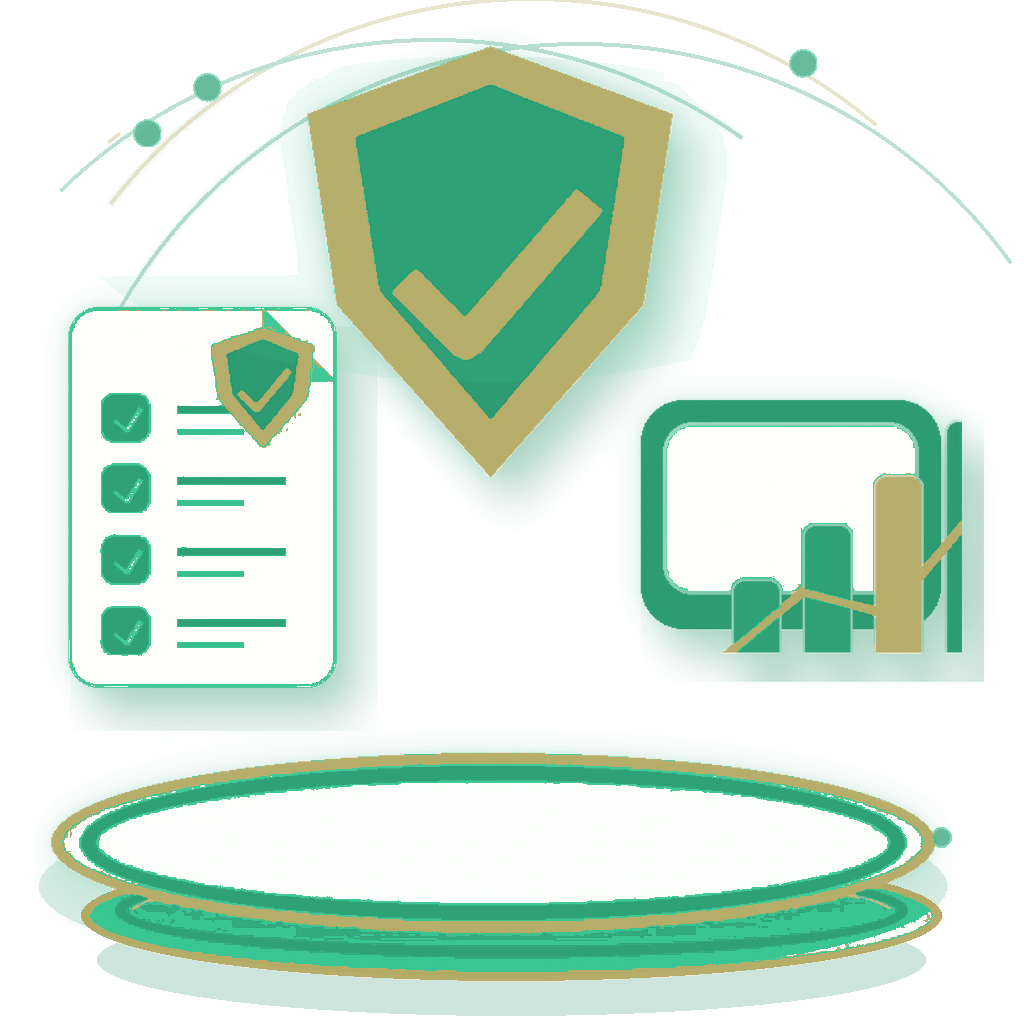
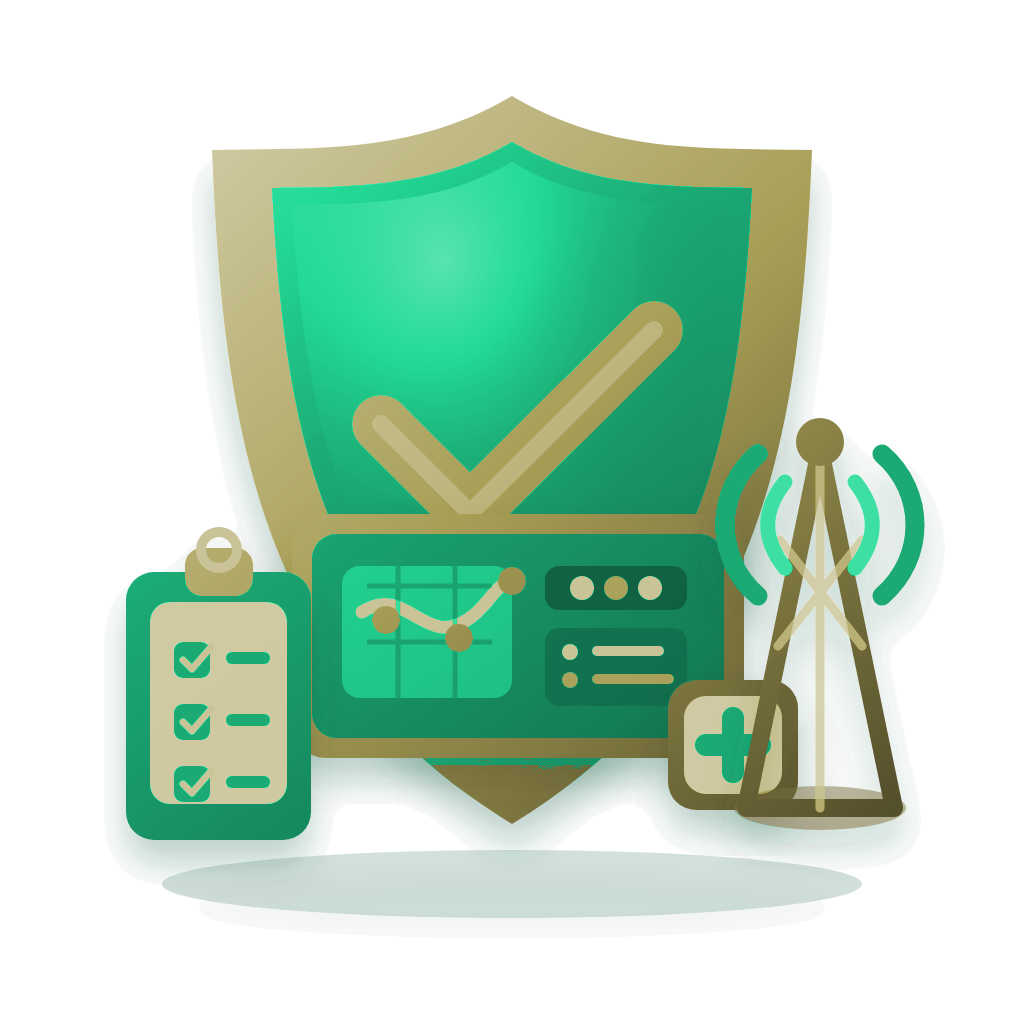
Redesign emergency intro assets

diff --git a/src/components/player/SlideStage.tsx b/src/components/player/SlideStage.tsx
@@ -1359,7 +1359,7 @@ function IntroMotionScene({
   // pixels never re-checks after we edit the file in place -- append a
   // manual version query so updating this file always busts the cache.
   const introHeroSrc = isEmergencyCourse
-    ? '/assets/visual-library/intro-emergency-preparedness-shield.webp?v=3'
+    ? '/assets/visual-library/intro-emergency-preparedness-shield.webp?v=4'
     : '/assets/visual-library/intro-governance-building-scene.webp';
   // Keep the pillar row's horizontal center locked to the hero image's own
   // center (both anchored from the right edge) so it never reads as

diff --git a/src/components/player/SlideTemplateFrame.tsx b/src/components/player/SlideTemplateFrame.tsx
@@ -21,7 +21,7 @@ export function SlideTemplateFrame({ variant = 'default' }: { variant?: 'default
             draggable={false}
           />
           <img
-            src="/template-assets/intro-topright-swoosh.webp?v=3"
+            src="/template-assets/intro-topright-swoosh.webp?v=4"
             alt=""
             className="absolute right-0 top-0 h-[135px] w-[440px] object-contain object-right-top"
             loading="eager"
